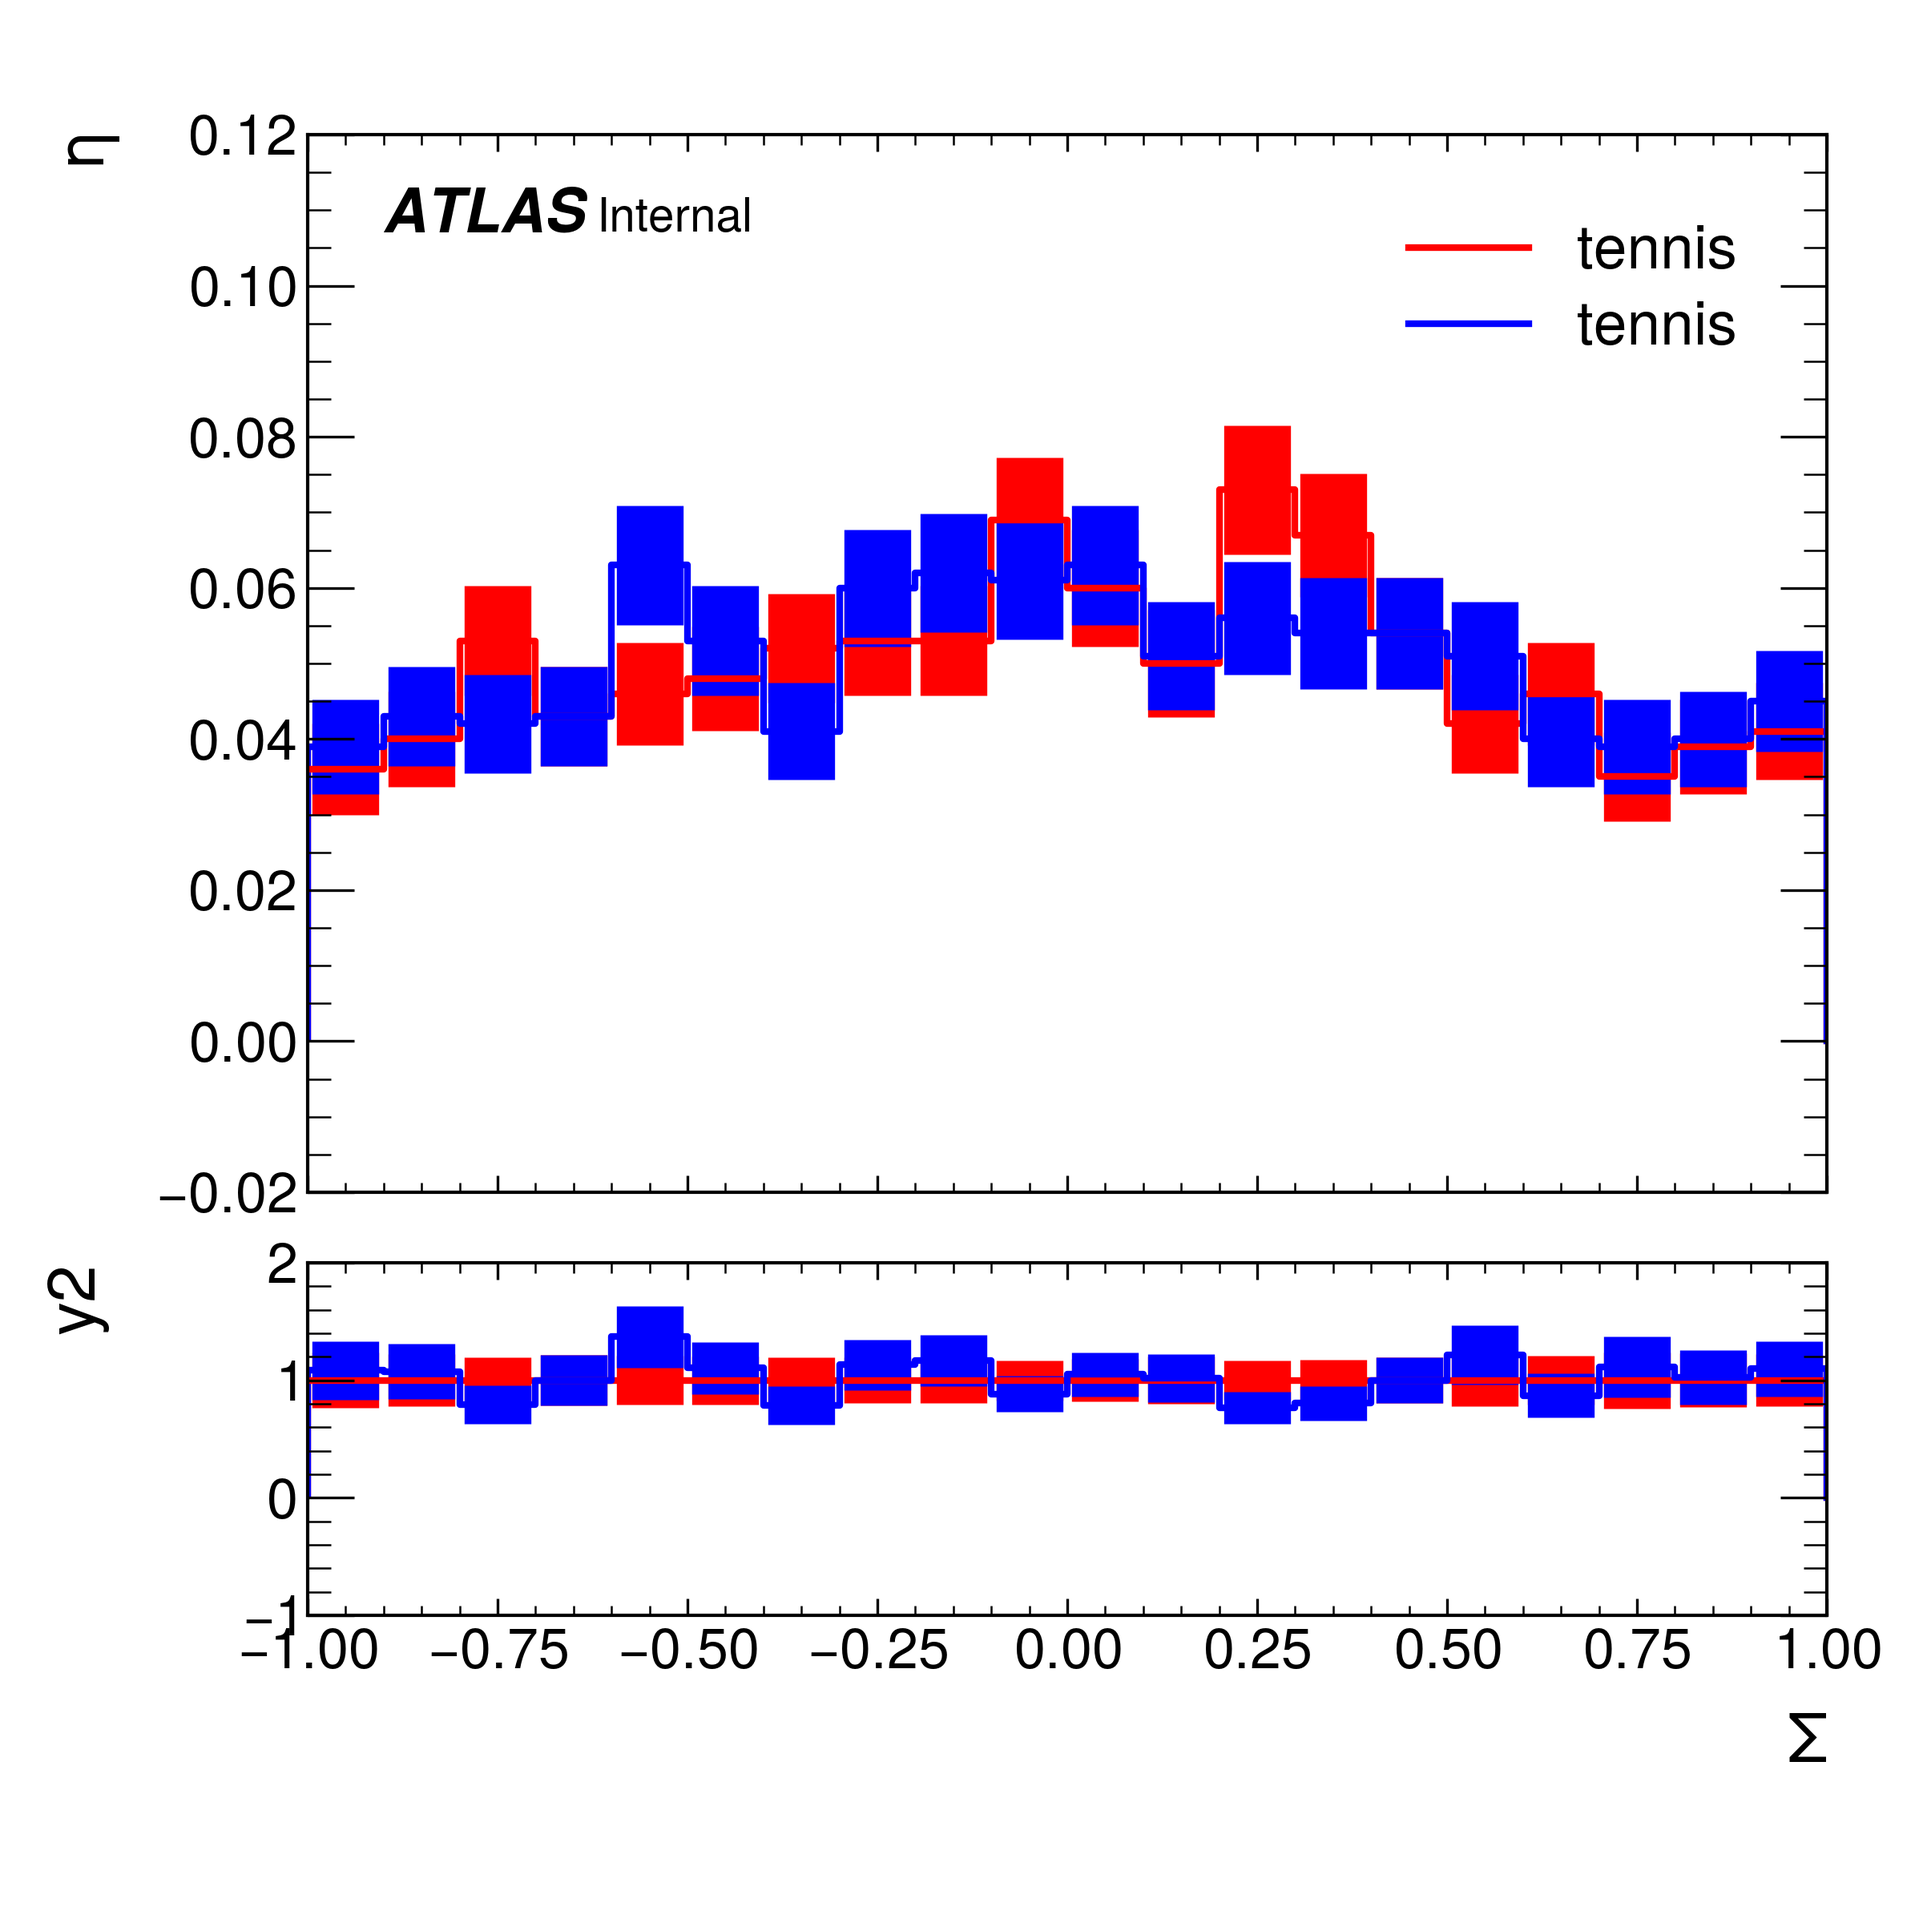
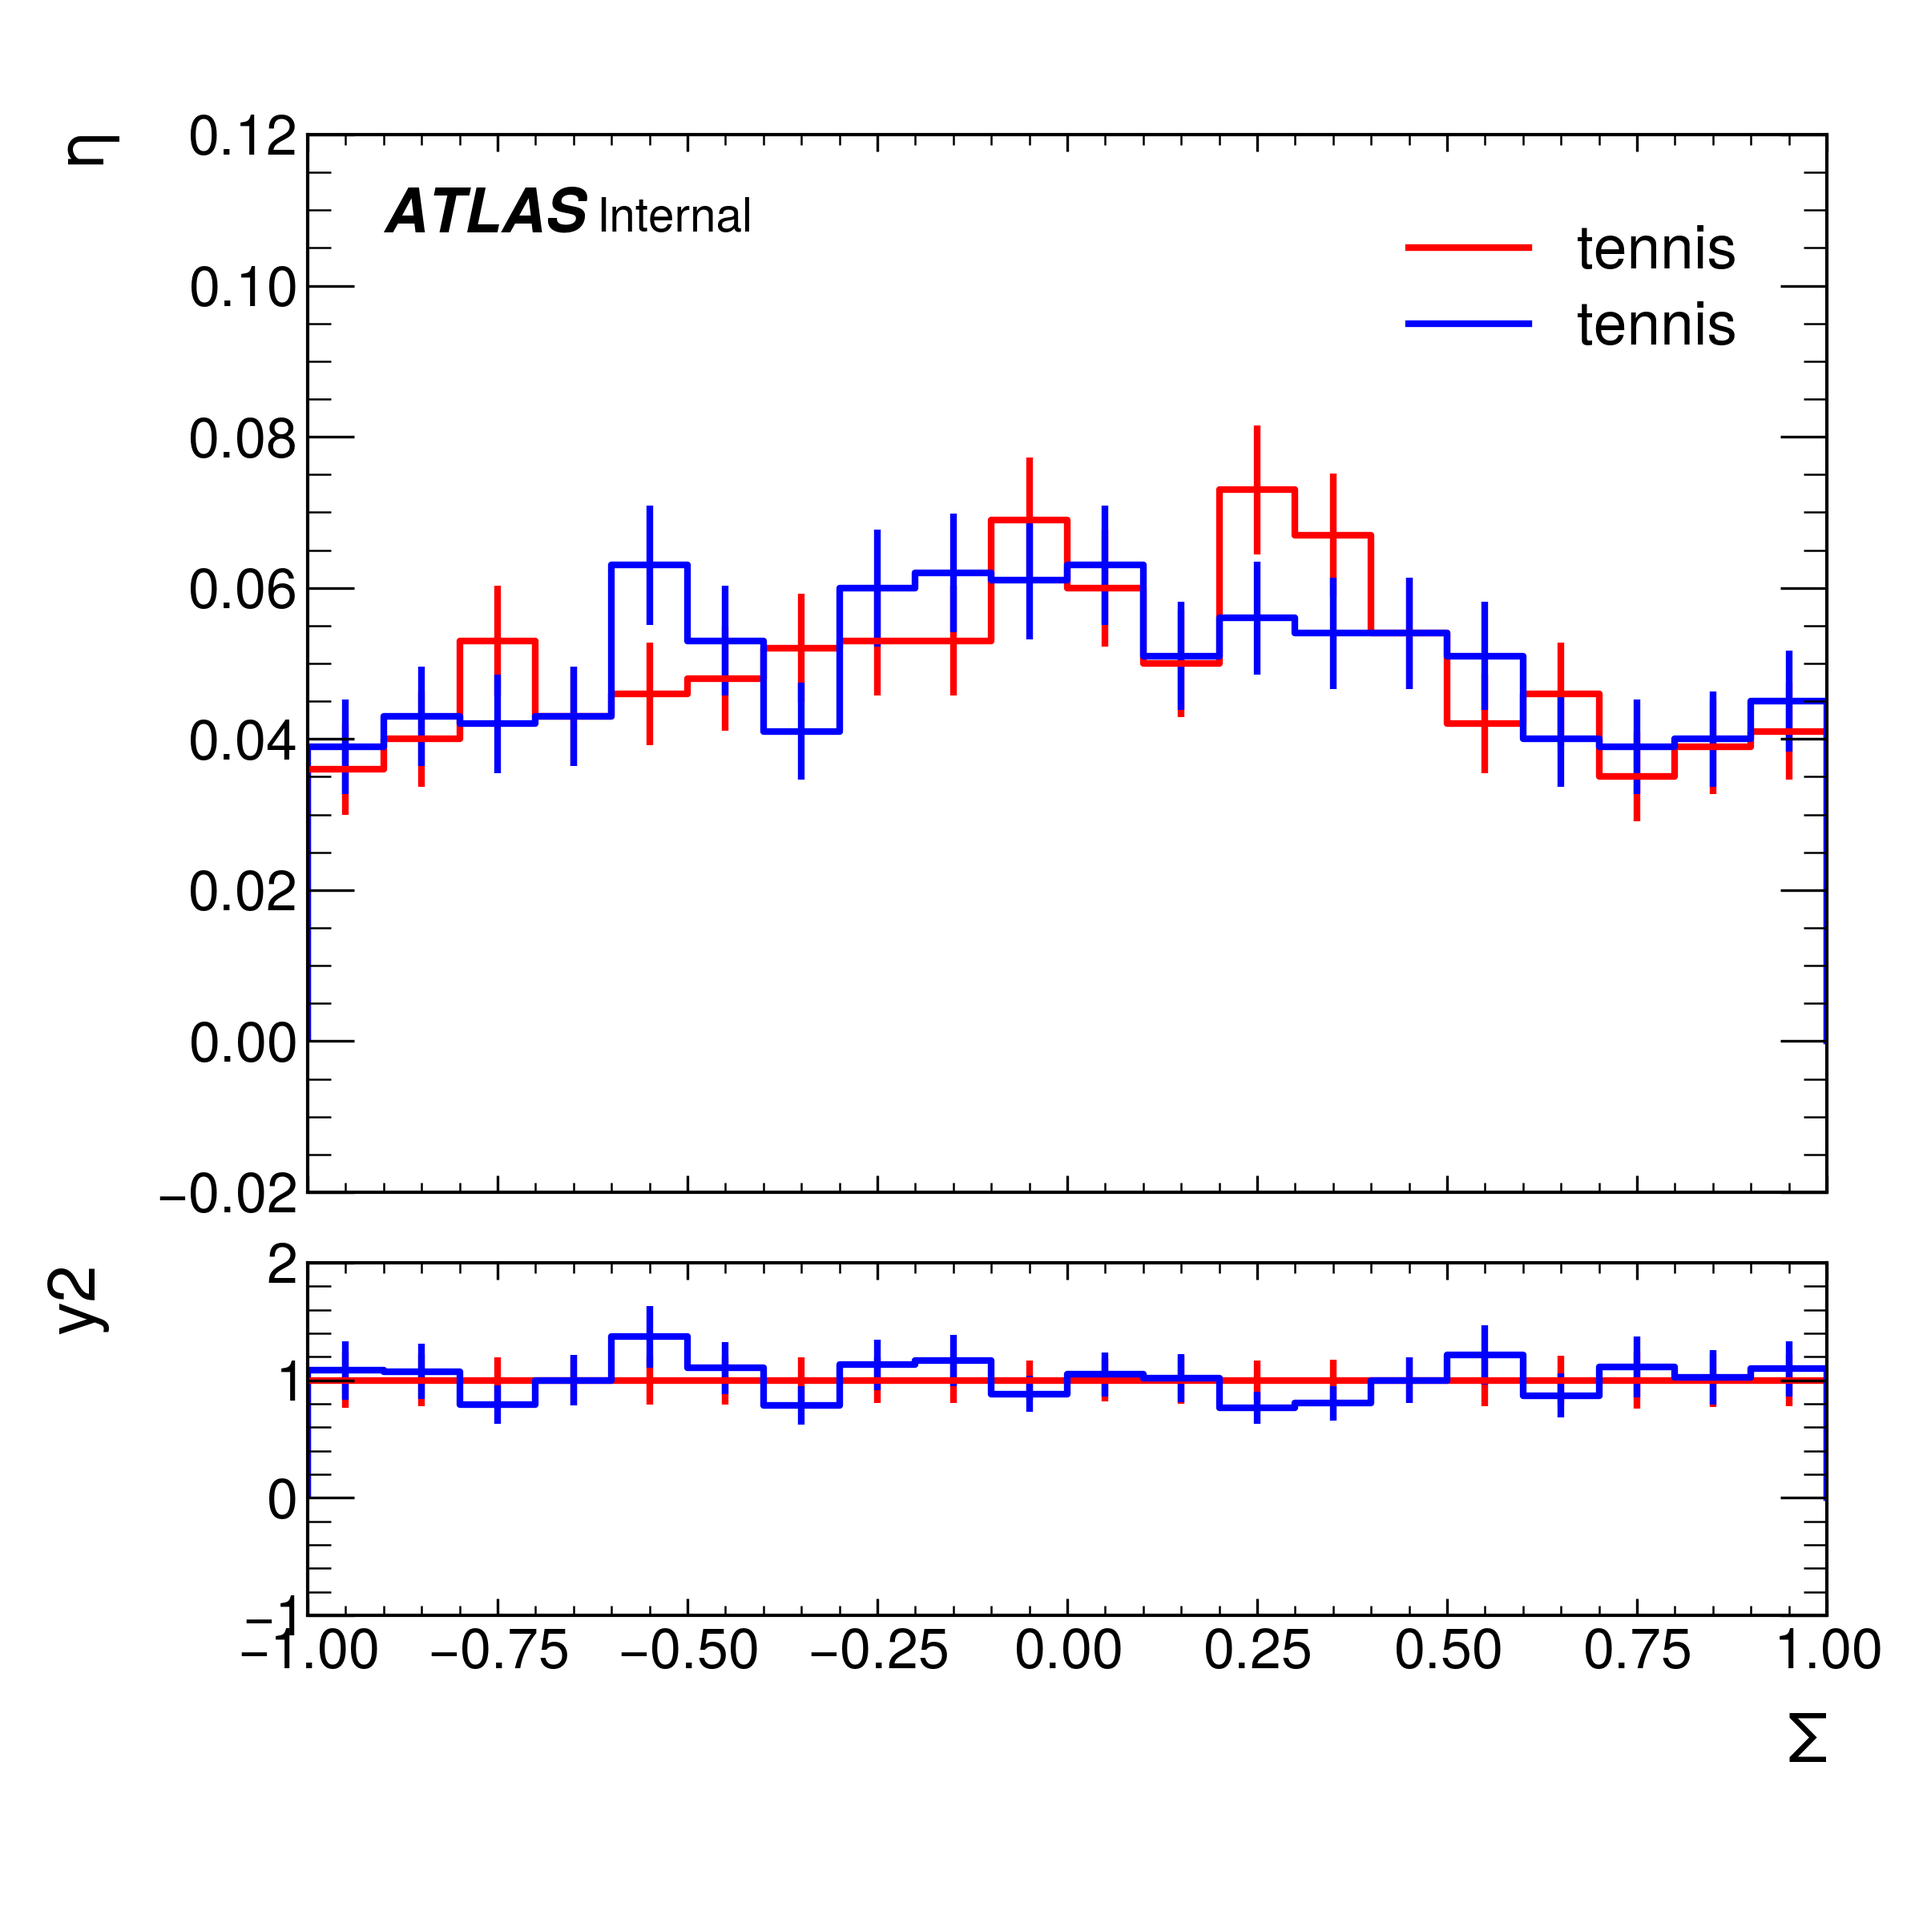
example 2

Changed region(s): [[0.1562, 0.2188, 0.9688, 0.4375], [0.1562, 0.6562, 0.9688, 0.75]]

diff --git a/Py3ROOT_mplhep/Py3.6/Plotting.py b/Py3ROOT_mplhep/Py3.6/Plotting.py
@@ -110,7 +110,7 @@ class HEP_Plot:
 
         ax = HEP_Plot.Step_Line(ax,PH)
 
-        ax.errorbar(PH.Bin_Centres,PH.Bin_Values,PH.Bin_Errors,elinewidth=20,ecolor=PH.colour,fmt='',xerr=None,linestyle='')
+        ax.errorbar(PH.Bin_Centres,PH.Bin_Values,PH.Bin_Errors,elinewidth=PH.linewidth,ecolor=PH.colour,fmt='',xerr=None,linestyle='')
 
 
 
